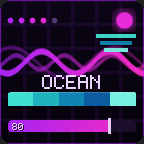
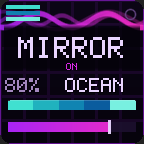
Bring the README in line with what the keys now do
The action table still promised Brightness would nudge, and the Status
key section described pips that the headline replaced and placed the
pattern glyph on the wrong side. Regenerate both screenshots from the
current renderer so the pictures match the prose.

diff --git a/README.md b/README.md
@@ -227,26 +227,27 @@ Lightwave ships an Elgato Stream Deck plugin, so your lights live on the deck al
 
 | Action | What it does |
 |---|---|
-| **Status** | Live display: palette name, its actual colors, brightness, pattern, fade state, and how many lights are on |
-| **Light** | Toggle one light; the key shows its name and lights up when on |
+| **Status** | Live display: what's on, brightness, palette and its colors, pattern, and fade state |
+| **Light** | Toggle one light; the key shows its name and lights up when on. Rename it in Stream Deck if the light's own name is too long for a key |
 | **All Lights** | Everything off — or back on when all are off |
-| **Brightness** | Nudge up or down; on **Stream Deck +**, turn the dial |
-| **Palette** | Cycle color palettes |
-| **Color Fade** | Start or stop the slow fade |
-| **Pattern** | One shared color, or a gradient spread across your lights |
+| **Brightness** | A read-only readout of the current level. Set brightness with the app's slider; on **Stream Deck +**, the dial adjusts it |
+| **Palette** | Step to the next or previous palette. Each key shows the palette you'll land on, with its colors |
+| **Color Fade** | Start or stop the slow fade — the key says which it will do |
+| **Pattern** | Switch between one shared color and a gradient across your lights — the key says which it will do |
 
 ### The Status key
 
-A live, animated readout of your lighting, drawn in the Lightwave style — neon waves over a dark grid, with the palette's real colors along the bottom:
+A live, animated readout of your lighting, drawn in the Lightwave style — neon waves over a dark grid:
 
 ![Status key in several states](docs/img/indicator-states.png)
 
-- **Palette name and swatches** — the exact colors currently in play
-- **Pips, top-left** — one per bound light, lit when that light is on
+- **The headline** answers what's on right now. One light lit gets **named**, in the largest type that fits; several are counted as **"5 OF 8 ON"**; nothing lit reads **"ALL OFF"**
+- **Brightness and palette**, on the line below — the percentage dimmed, since it's context rather than the headline, with the palette's name beside it
+- **Swatch strip** — the palette's exact colors, currently in play
+- **Pattern, top-left** — stepped bars in the palette's colors when the gradient is spread across your lights, one solid block when they all share a color
 - **Dot, top-right** — glowing and pulsing while the color fade runs, a hollow ring when idle
-- **Pattern glyph, upper-right** — three stepped bars for a gradient across your lights, one solid block when they all share a color
-- **Fader, along the bottom** — the pool's brightness, with the exact percentage; it dims when every light is off, since the level is then only what the lights will return to
-- **The wave** drifts gently, and speeds up while the fade is running
+- **Fader, along the bottom** — the pool's brightness; it dims when every light is off, since the level is then only what the lights will return to
+- **The wave** drifts gently behind it all, and speeds up while the fade is running
 
 Press it to cycle palettes.
 
